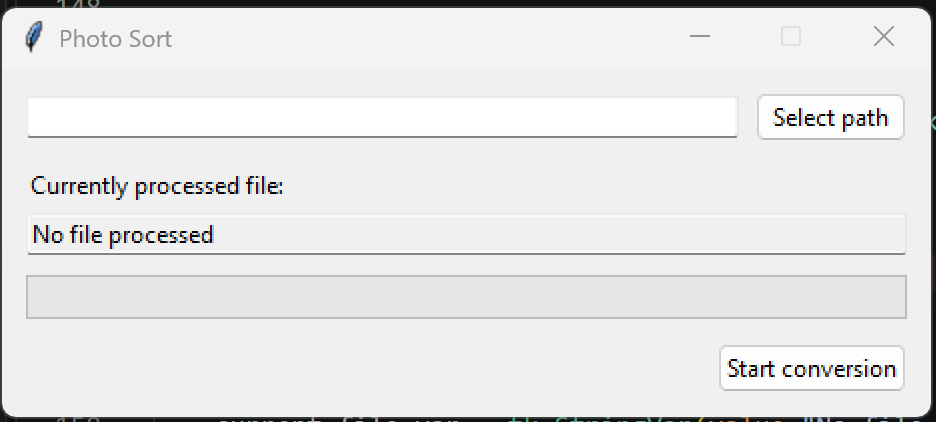
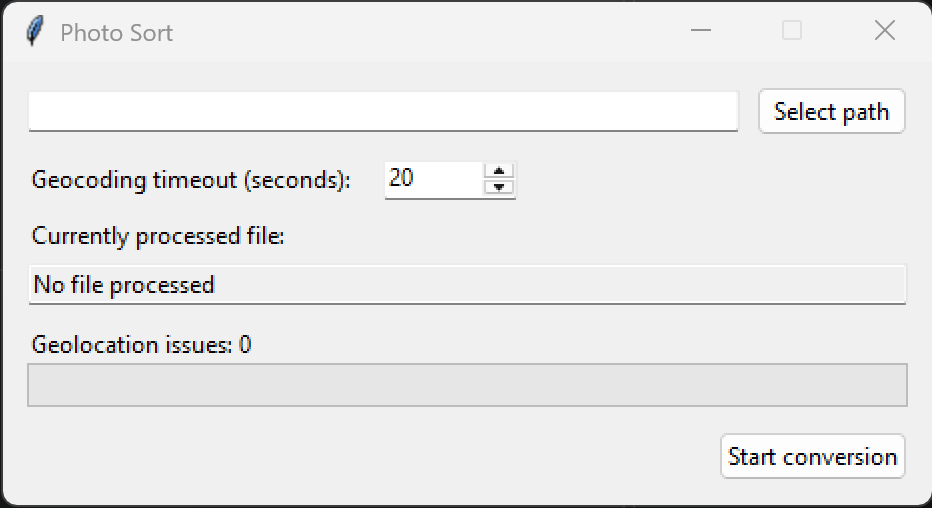
Add geocoding timeout option and enhance error reporting in GUI

diff --git a/sort.py b/sort.py
@@ -7,11 +7,30 @@ import threading
 from typing import Any, Callable, cast
 
 import exifread
+from geopy.extra.rate_limiter import RateLimiter
 from geopy.geocoders import Nominatim
 
 unbekannt = 0
 
 geolocator = Nominatim(user_agent="geo_renamer")
+reverse_geocode = RateLimiter(
+    geolocator.reverse,
+    min_delay_seconds=1,
+    max_retries=2,
+    error_wait_seconds=5,
+    swallow_exceptions=False,
+)
+
+
+def report_geolocation_failure(
+    message: str,
+    warning_callback: Callable[[str], None] | None = None,
+) -> None:
+    if warning_callback:
+        warning_callback(message)
+    else:
+        print(f"Warning: {message}")
+
 
 def sanitize_filename(filename: str, max_length=255) -> str:
     """
@@ -45,7 +64,11 @@ def compute_sha256(file_path):
     return sha256_hash.hexdigest()
 
 
-def get_exif_data(image_path):
+def get_exif_data(
+    image_path,
+    timeout=20,
+    warning_callback: Callable[[str], None] | None = None,
+):
     global unbekannt
 
     with open(image_path, 'rb') as f:
@@ -60,10 +83,21 @@ def get_exif_data(image_path):
         if gps_latitude and gps_longitude:
             lat = convert_to_degrees(gps_latitude)
             lon = convert_to_degrees(gps_longitude)
-            location = get_location(lat, lon)
+
+            def report_failure(reason: str) -> None:
+                filename = os.path.basename(image_path)
+                report_geolocation_failure(
+                    f"{filename}: {reason}", warning_callback
+                )
+
+            location = get_location(lat, lon, timeout, report_failure)
         else:
             unbekannt = unbekannt + 1
             location = f" {unbekannt}"
+            filename = os.path.basename(image_path)
+            report_geolocation_failure(
+                f"{filename}: GPS coordinates are missing.", warning_callback
+            )
 
         return date_taken, location
 
@@ -72,12 +106,17 @@ def convert_to_degrees(value):
     d, m, s = value.values
     return d + (m / 60.0) + (s / 3600.0)
 
-def get_location(lat, lon):
+def get_location(
+    lat,
+    lon,
+    timeout=20,
+    warning_callback: Callable[[str], None] | None = None,
+):
     global unbekannt
 
     """converts GPS coordinates to locations by help of geopy"""
     try:
-        location = geolocator.reverse((lat, lon), exactly_one=True)
+        location = reverse_geocode((lat, lon), exactly_one=True, timeout=timeout)
         if location:
             raw_location = cast(dict[str, Any], cast(Any, location).raw)
             address = raw_location.get("address", {})
@@ -105,14 +144,23 @@ def get_location(lat, lon):
             return ret
         else:
             unbekannt = unbekannt + 1
+            report_geolocation_failure(
+                f"No result for coordinates ({lat}, {lon}).", warning_callback
+            )
             return str(unbekannt)
-    except BaseException as e:
+    except Exception as error:
         unbekannt = unbekannt + 1
+        report_geolocation_failure(
+            f"Lookup failed for coordinates ({lat}, {lon}): {error}",
+            warning_callback,
+        )
         return str(unbekannt)
 
 def rename_images(
     directory: str,
     progress_callback: Callable[[str, int, int], None] | None = None,
+    timeout: int = 20,
+    warning_callback: Callable[[str], None] | None = None,
 ) -> None:
     image_filenames = [
         filename
@@ -132,7 +180,9 @@ def rename_images(
             os.remove(image_path)
         else:
             hashes.add(file_hash)
-            date_taken, location = get_exif_data(image_path)
+            date_taken, location = get_exif_data(
+                image_path, timeout, warning_callback
+            )
             if date_taken:
                 new_filename = sanitize_filename(f"{date_taken} {location}.jpg")
                 new_path = os.path.join(directory, new_filename)
@@ -156,6 +206,10 @@ def run_gui() -> None:
 
     directory_var = tk.StringVar()
     current_file_var = tk.StringVar(value="No file processed")
+    timeout_var = tk.IntVar(value=20)
+    warning_var = tk.StringVar(value="Geolocation issues: 0")
+    location_warning_count = 0
+    latest_location_warning = ""
     events: queue.Queue[tuple[str, str, int, int]] = queue.Queue()
 
     def select_directory() -> None:
@@ -164,14 +218,27 @@ def run_gui() -> None:
             directory_var.set(directory)
 
     def start_conversion() -> None:
+        nonlocal location_warning_count, latest_location_warning
+
         directory = directory_var.get()
         if not os.path.isdir(directory):
             messagebox.showerror("Invalid folder", "Select an existing folder first.")
             return
 
+        try:
+            timeout = timeout_var.get()
+            if timeout < 1:
+                raise ValueError
+        except (tk.TclError, ValueError):
+            messagebox.showerror("Invalid timeout", "Enter at least 1 second.")
+            return
+
         start_button.configure(state="disabled")
         progress.configure(maximum=1, value=0)
         current_file_var.set("Starting...")
+        location_warning_count = 0
+        latest_location_warning = ""
+        warning_var.set("Geolocation issues: 0")
 
         def worker() -> None:
             try:
@@ -180,6 +247,8 @@ def run_gui() -> None:
                     lambda filename, completed, total: events.put(
                         ("progress", filename, completed, total)
                     ),
+                    timeout,
+                    lambda message: events.put(("warning", message, 0, 0)),
                 )
             except Exception as error:
                 events.put(("error", str(error), 0, 0))
@@ -189,18 +258,33 @@ def run_gui() -> None:
         threading.Thread(target=worker, daemon=True).start()
 
     def poll_events() -> None:
+        nonlocal location_warning_count, latest_location_warning
+
         try:
             while True:
                 event, value, completed, total = events.get_nowait()
                 if event == "progress":
                     current_file_var.set(value)
                     progress.configure(maximum=max(total, 1), value=completed)
+                elif event == "warning":
+                    location_warning_count += 1
+                    latest_location_warning = value
+                    warning_var.set(
+                        f"Geolocation issues: {location_warning_count}. Latest: {value}"
+                    )
                 elif event == "error":
                     start_button.configure(state="normal")
                     messagebox.showerror("Conversion failed", value)
                 else:
                     start_button.configure(state="normal")
                     current_file_var.set("Finished")
+                    if location_warning_count:
+                        messagebox.showwarning(
+                            "Geolocation incomplete",
+                            f"Could not retrieve geolocation for "
+                            f"{location_warning_count} photo(s).\n"
+                            f"Latest issue: {latest_location_warning}",
+                        )
         except queue.Empty:
             pass
         root.after(100, poll_events)
@@ -215,16 +299,26 @@ def run_gui() -> None:
         row=0, column=1
     )
 
+    ttk.Label(root, text="Geocoding timeout (seconds):").grid(
+        row=1, column=0, padx=12, pady=(0, 8), sticky="w"
+    )
+    ttk.Spinbox(root, from_=1, to=3600, textvariable=timeout_var, width=8).grid(
+        row=1, column=0, padx=190, pady=(0, 8), sticky="w"
+    )
+
     ttk.Label(root, text="Currently processed file:").grid(
-        row=1, column=0, padx=12, sticky="w"
+        row=2, column=0, padx=12, sticky="w"
     )
     ttk.Entry(root, textvariable=current_file_var, state="readonly", width=64).grid(
-        row=2, column=0, padx=12, pady=(4, 10), sticky="ew"
+        row=3, column=0, padx=12, pady=(4, 10), sticky="ew"
+    )
+    ttk.Label(root, textvariable=warning_var, wraplength=440).grid(
+        row=4, column=0, padx=12, sticky="w"
     )
     progress = ttk.Progressbar(root, mode="determinate", length=440)
-    progress.grid(row=3, column=0, padx=12, sticky="ew")
+    progress.grid(row=5, column=0, padx=12, sticky="ew")
     start_button = ttk.Button(root, text="Start conversion", command=start_conversion)
-    start_button.grid(row=4, column=0, padx=12, pady=12, sticky="e")
+    start_button.grid(row=6, column=0, padx=12, pady=12, sticky="e")
 
     root.after(100, poll_events)
     root.mainloop()
@@ -237,12 +331,21 @@ def main() -> None:
         nargs="?",
         help="photo folder to process; omit to open the graphical interface",
     )
+    parser.add_argument(
+        "--timeout",
+        type=int,
+        default=20,
+        help="geocoding timeout in seconds (default: 20)",
+    )
     args = parser.parse_args()
+
+    if args.timeout < 1:
+        parser.error("--timeout must be at least 1 second")
 
     if args.directory:
         if not os.path.isdir(args.directory):
             parser.error(f"not an existing directory: {args.directory}")
-        rename_images(args.directory)
+        rename_images(args.directory, timeout=args.timeout)
     else:
         run_gui()
 

diff --git a/README.md b/README.md
@@ -16,7 +16,13 @@ Pass the photo folder as an argument to process it directly:
 python sort.py "C:\Photos"
 ```
 
-Run without an argument to open the graphical interface, or use `python sort.py --help` to display the command-line options.
+Geocoding uses a 20-second timeout by default. Override it with `--timeout`:
+
+```powershell
+python sort.py "C:\Photos" --timeout 45
+```
+
+Run without an argument to open the graphical interface, or use `python sort.py --help` to display the command-line options. The graphical interface also has a geocoding timeout setting.
 
 ### Graphical interface
 
